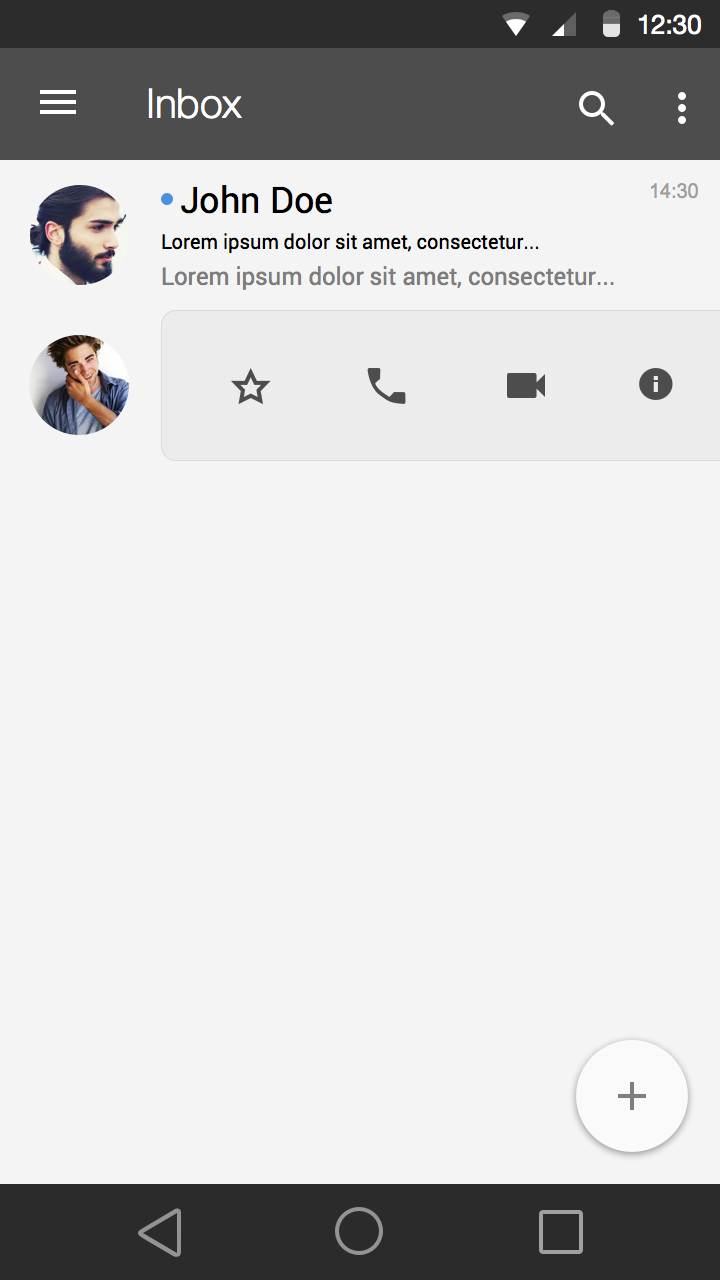
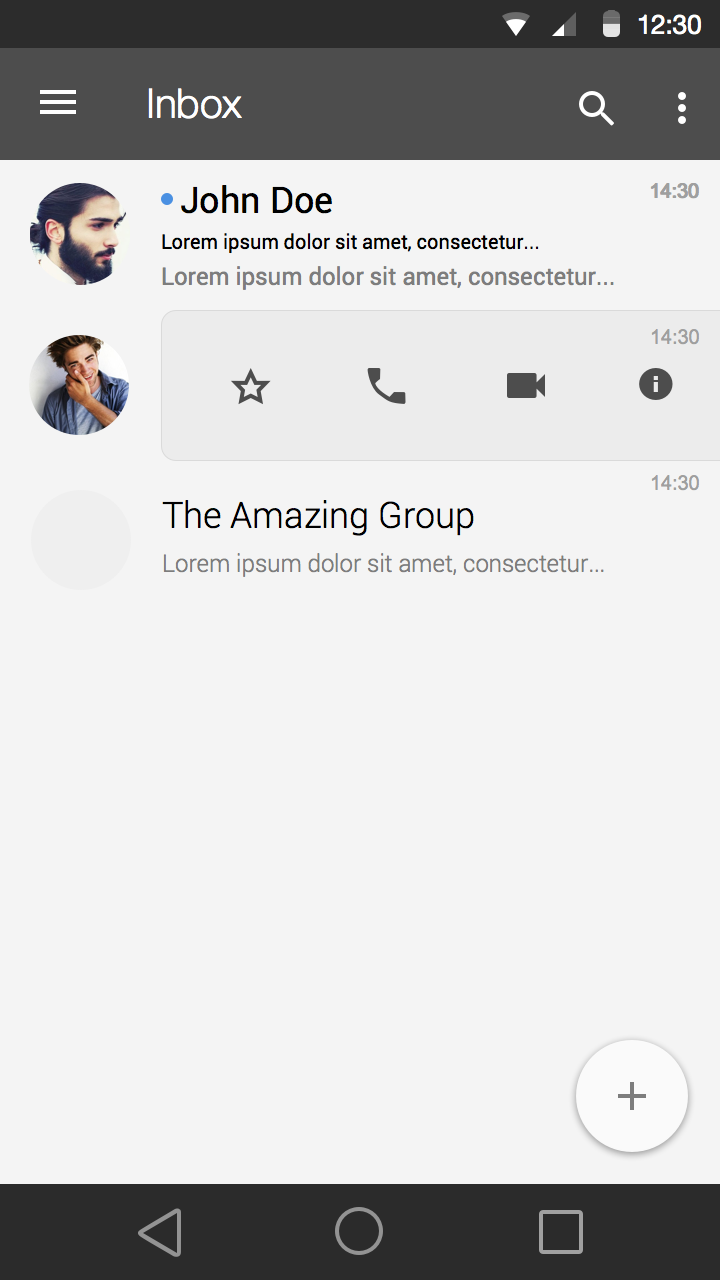
Added Group Chat to Inbox

diff --git a/doc/storyboard/index.html b/doc/storyboard/index.html
@@ -15,7 +15,7 @@
 						<a href="Message.html"><div class="highlight" style="position:absolute;top: 176px;left: 0px;width: 400px;height: 80px;"></div></a>
 						<a href="indexSettings.html"><div class="highlight" style="position:absolute;top: 40px;left: 358px;width: 30px;height: 30px;"></div></a>
 						<a href="newMessage.html"><div class="highlight" style="position:absolute;top: 573px;left: 317px;width: 66px;height: 68px;"></div></a>
-
+						<a href="GroupMessage.html"><div class="highlight" style="position:absolute;top: 260px;left: 0px;width: 400px;height: 80px;"></div></a>
 					</div>
 					<div id="text"><h1>Tox Android Application Mockup</h1></div>
 					<a href="Call.html" style="color:blue;">Get a Call!</a>
